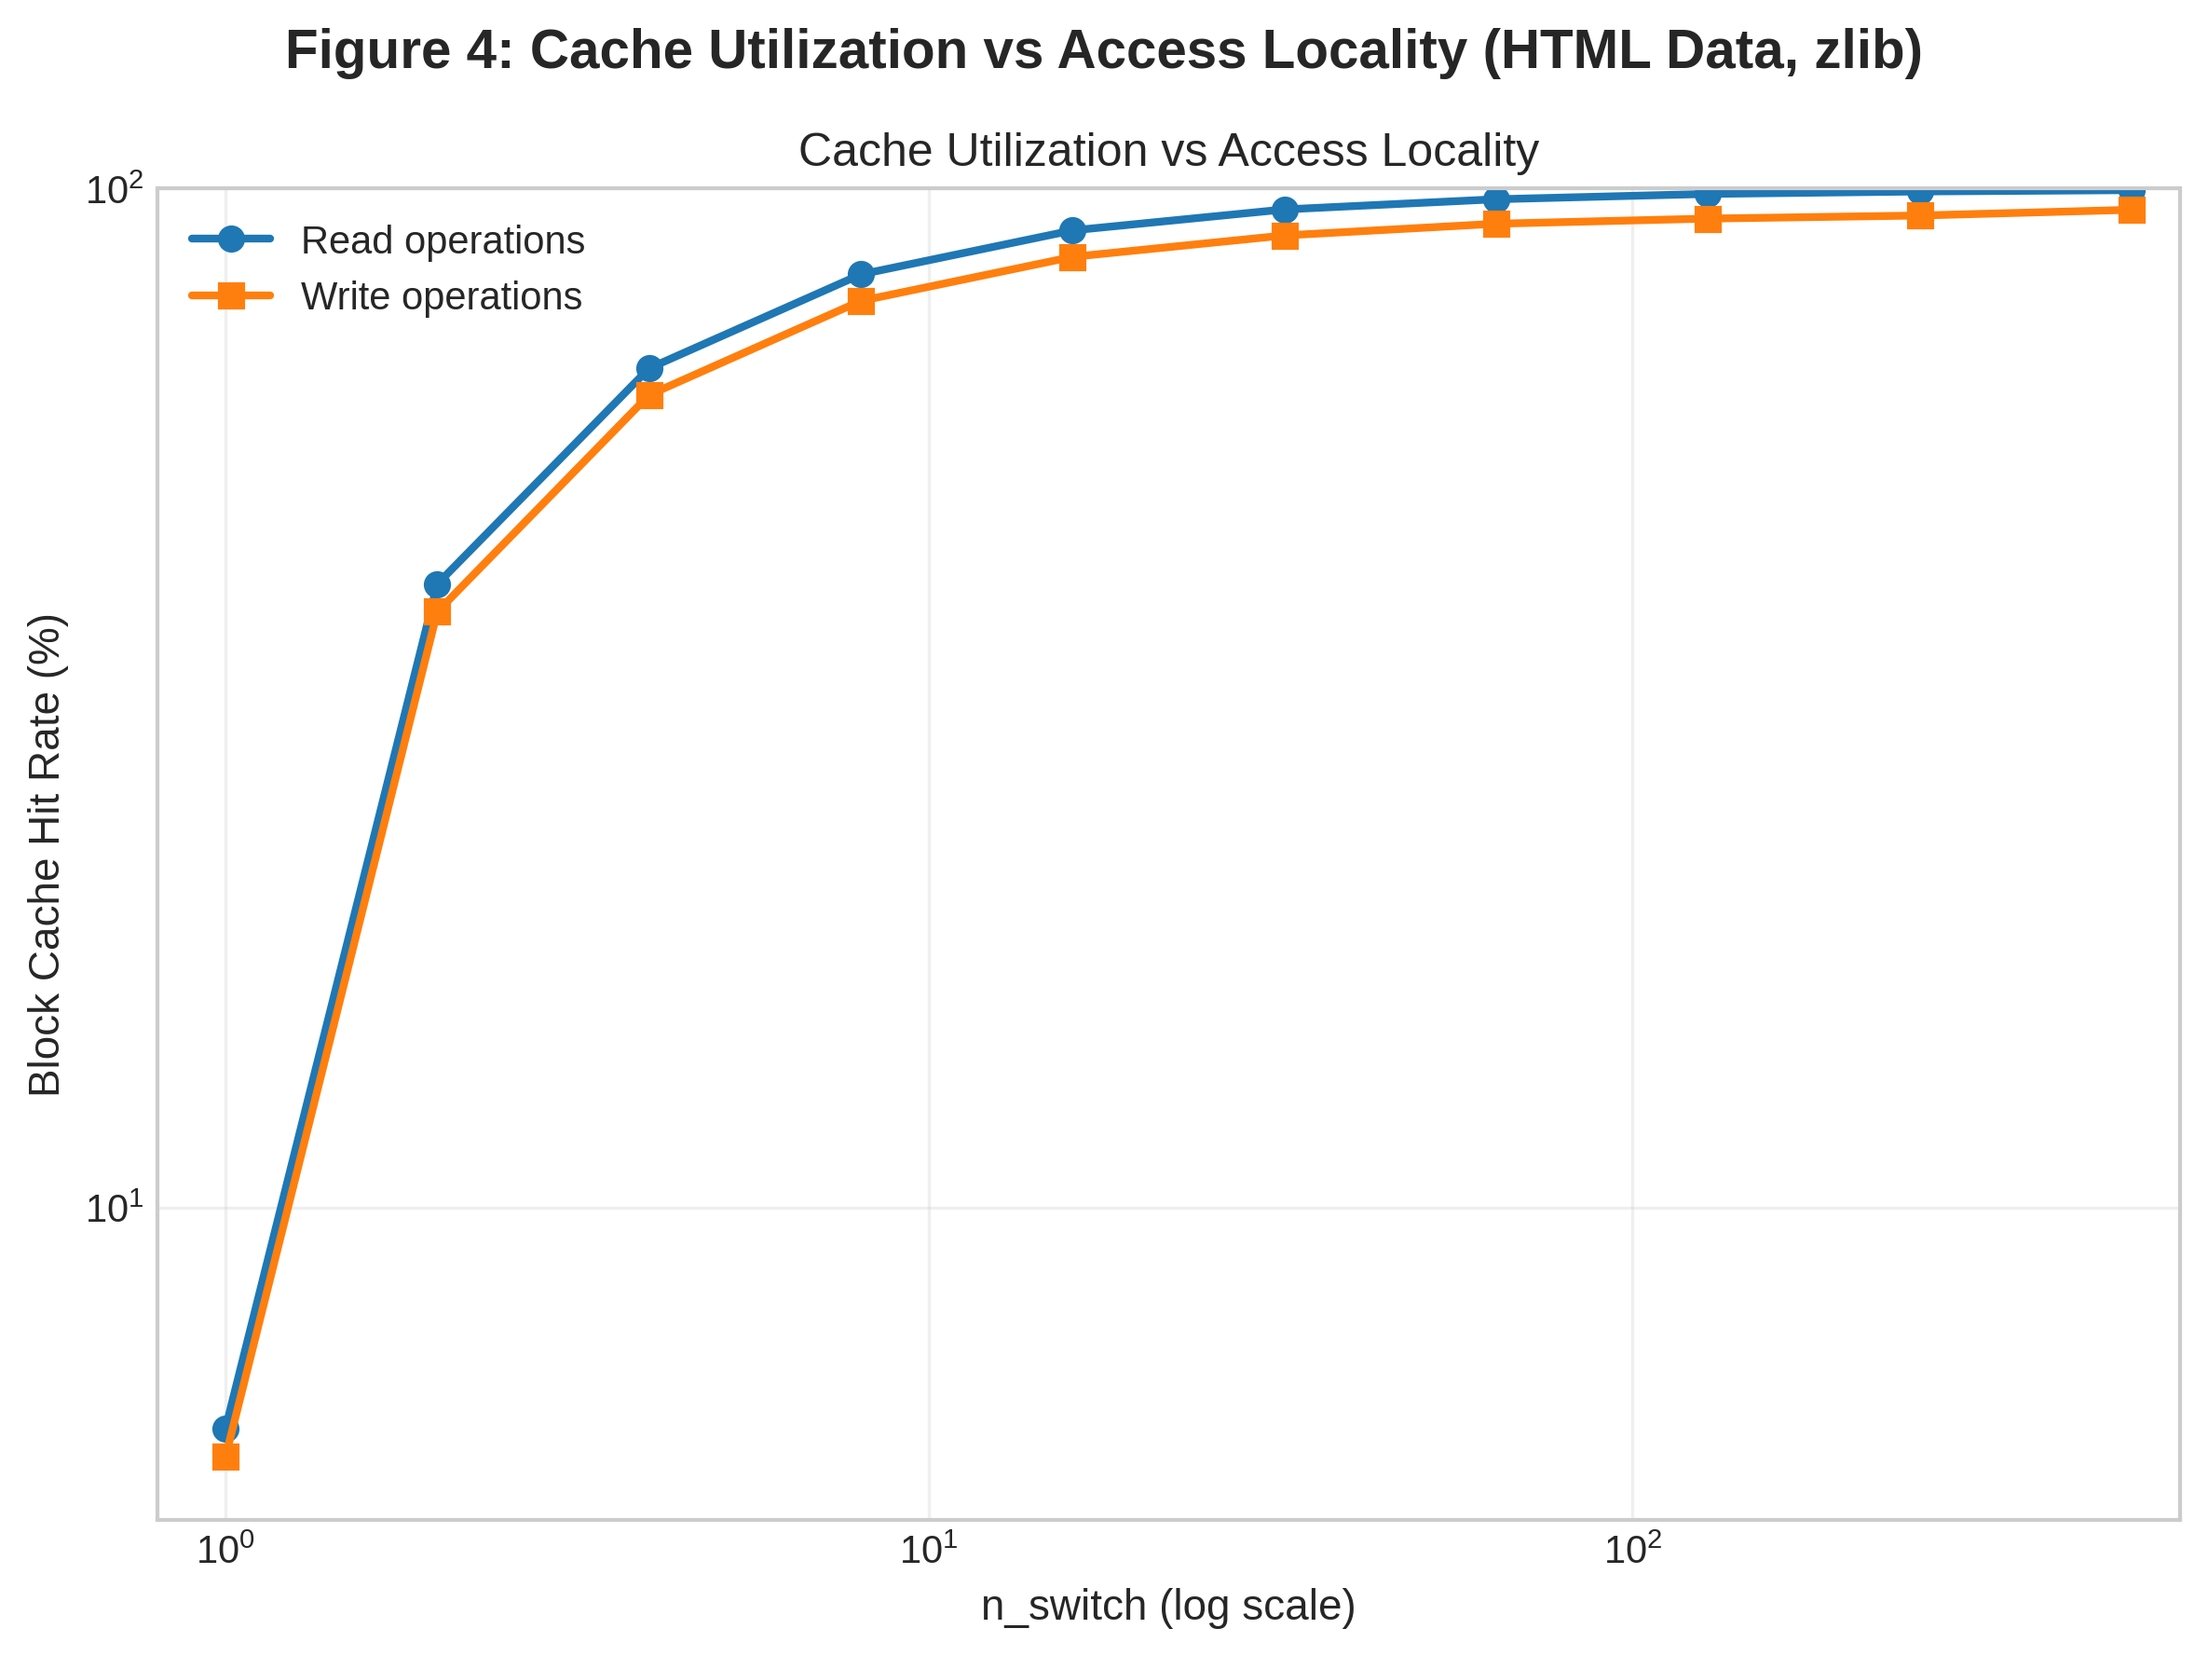
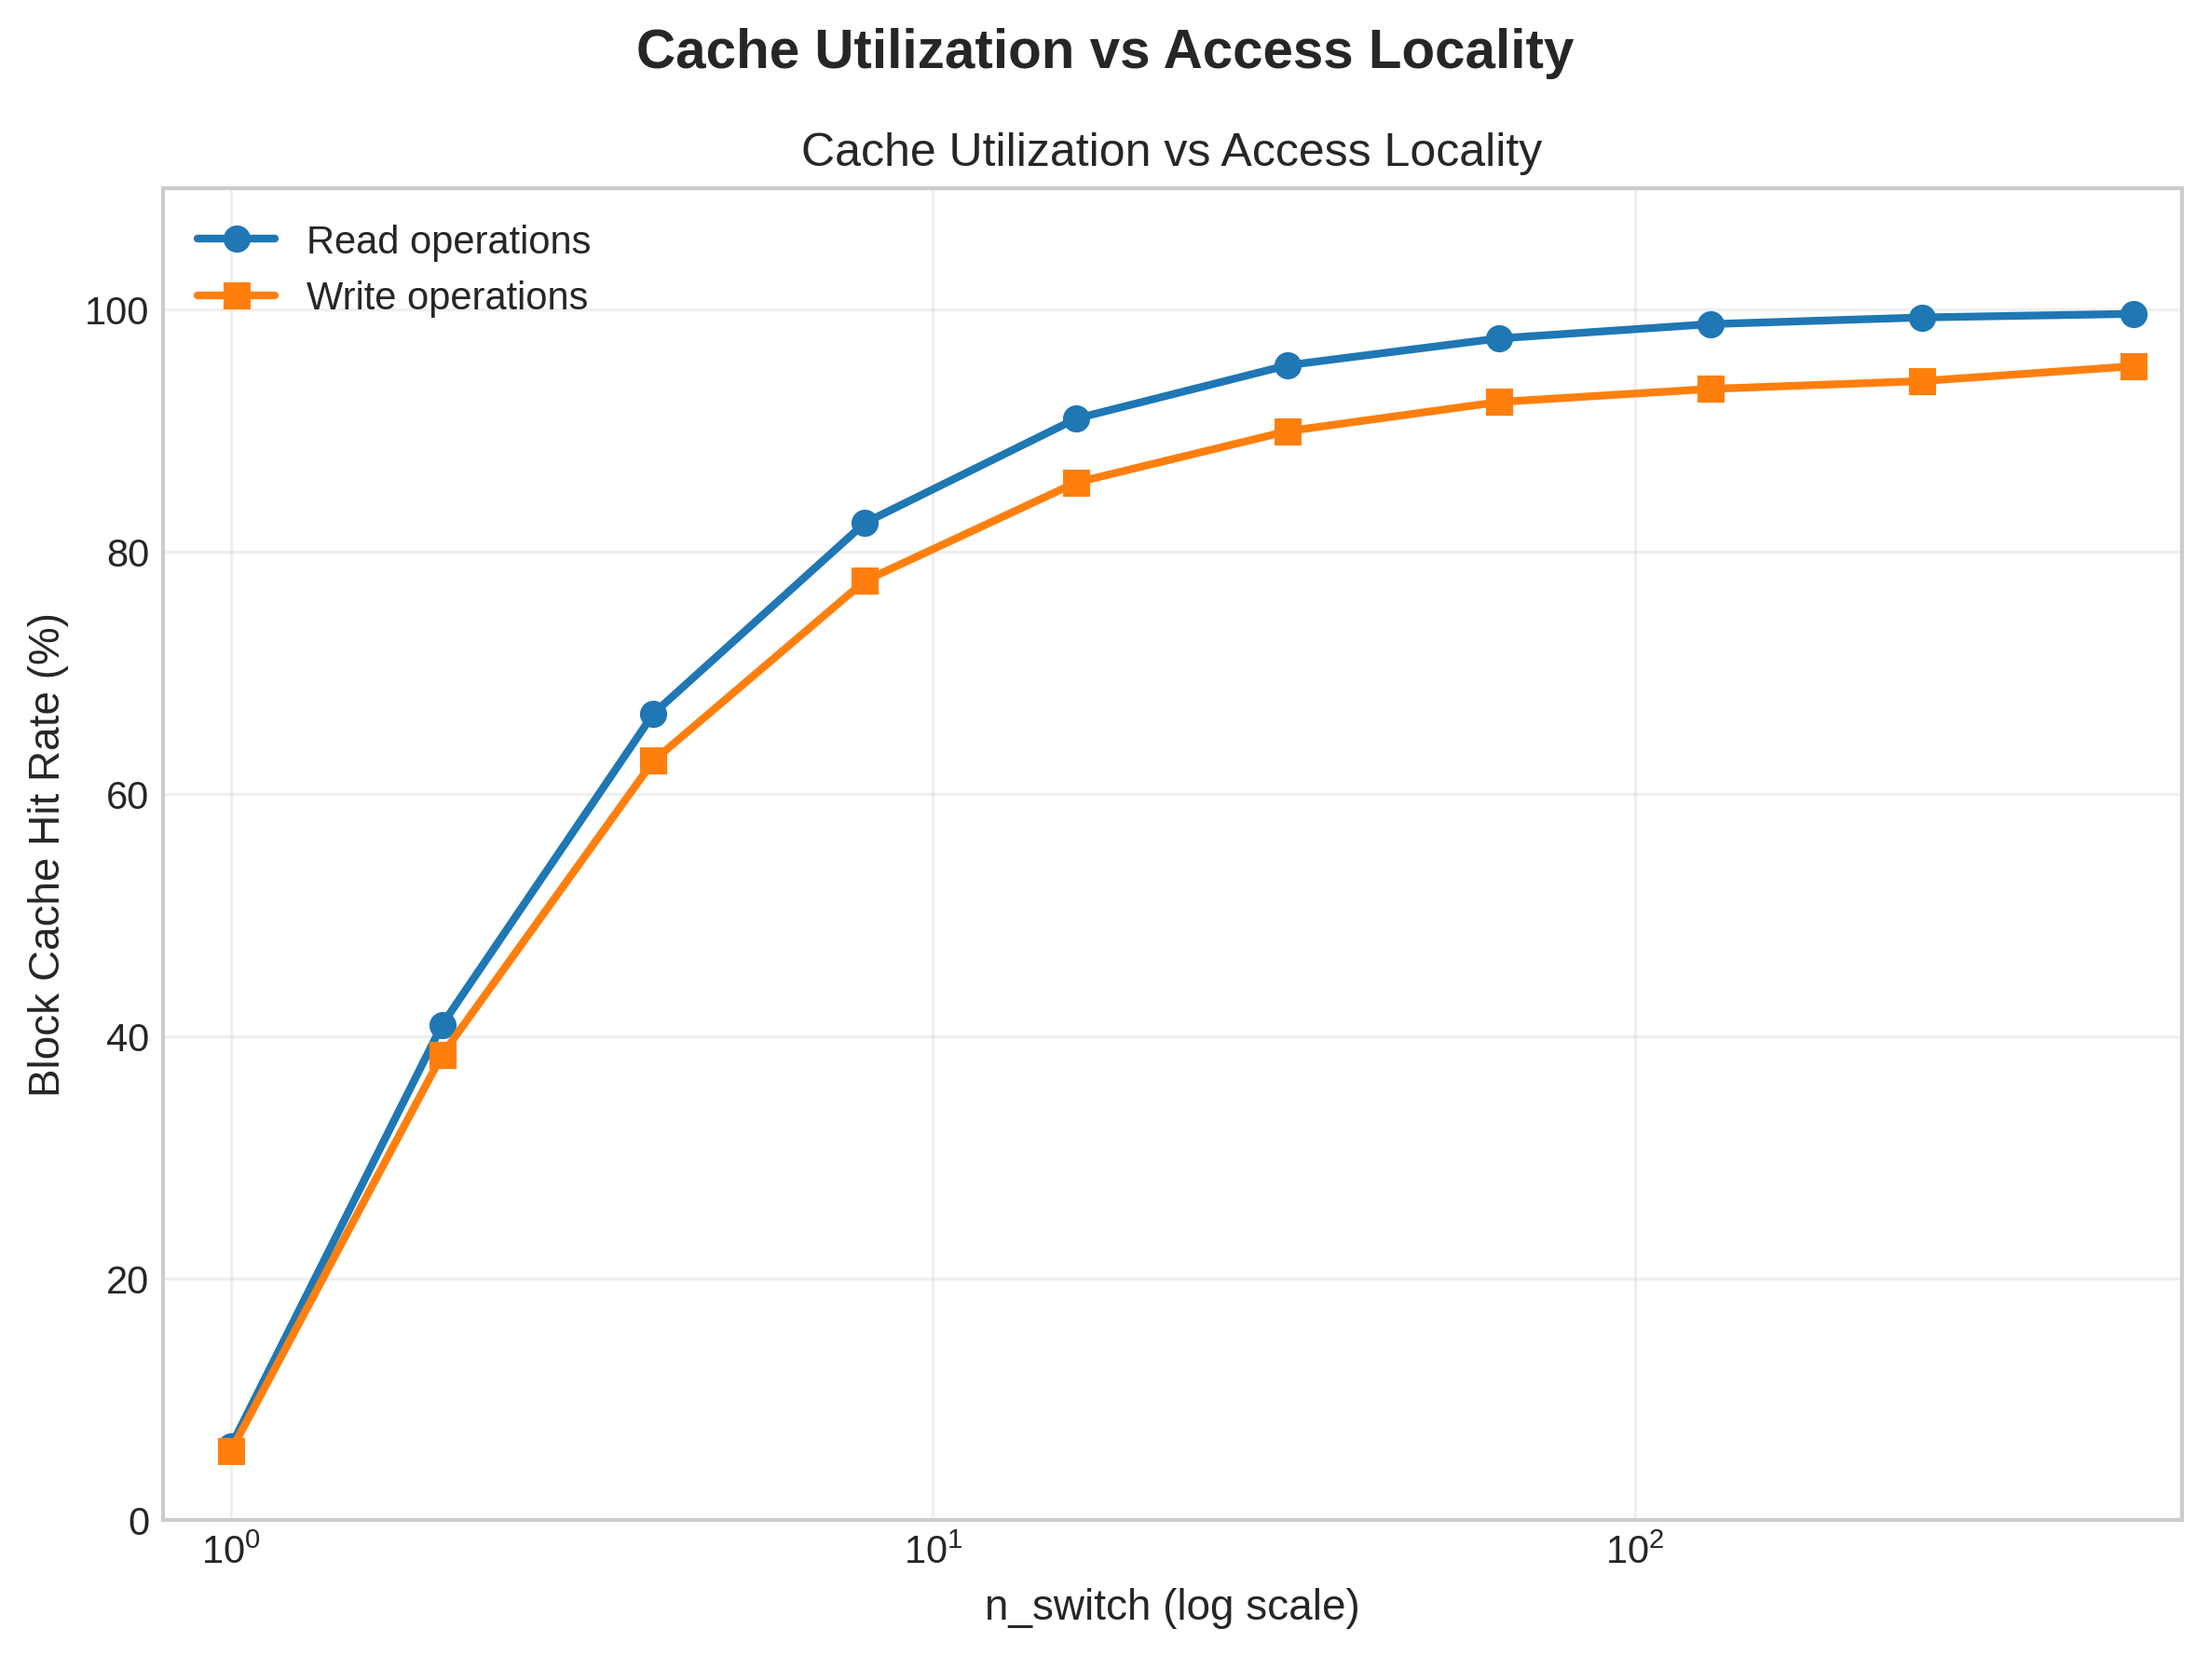
chore: some minor style improvements in plots

diff --git a/metrics/analyze.py b/metrics/analyze.py
@@ -157,8 +157,7 @@ class BenchmarkAnalyzer:
     def figure1_cache_redesign(self):
         """Create Figure 1: Cache Redesign Improvement (2x2 grid)."""
         fig, axes = plt.subplots(2, 2, figsize=(12, 10))
-        fig.suptitle('Figure 1: Cache Redesign Performance Improvement (HTML Data, zlib)', 
-                    fontsize=14, fontweight='bold')
+        fig.suptitle('Cache Redesign Performance Improvement', fontsize=14, fontweight='bold')
         
         # Plot 1A: Compression work for writes
         ax = axes[0, 0]
@@ -252,8 +251,7 @@ class BenchmarkAnalyzer:
     def figure2_io_reduction(self):
         """Create Figure 2: I/O Reduction Mechanism (1x2 grid)."""
         fig, axes = plt.subplots(1, 2, figsize=(14, 6))
-        fig.suptitle('Figure 2: I/O Reduction vs Cache Hit Rate (HTML Data, zlib)', 
-                    fontsize=14, fontweight='bold')
+        fig.suptitle('I/O Reduction vs Cache Hit Rate', fontsize=14, fontweight='bold')
         
         # Plot 2A: Write I/O reduction
         ax = axes[0]
@@ -330,11 +328,9 @@ class BenchmarkAnalyzer:
     def figure3_algorithm_comparison(self):
         """Create Figure 3: Algorithm Comparison vs Stdio (1x2 grid)."""
         fig, axes = plt.subplots(1, 2, figsize=(14, 6))
-        fig.suptitle('Figure 3: Algorithm Comparison vs Stdio (HTML Data, All Compressors)', 
-                    fontsize=14, fontweight='bold')
+        fig.suptitle('Algorithm Comparison vs Stdio (HTML Data)', fontsize=14, fontweight='bold')
         
-        algorithms = ['zlib', 'lz4', 'zstd']
-        markers = {'zlib': 'o', 'lz4': 's', 'zstd': '^'}
+        algorithms = ['zlib', 'zstd', 'lz4']
         
         # Plot 3A: Read break-even
         ax = axes[0]
@@ -367,7 +363,7 @@ class BenchmarkAnalyzer:
                         transformed_hits = self.setup_cache_hit_axis(ax, cache_hits)
                         
                         ax.plot(transformed_hits, throughput_ratios, 
-                               marker=markers[algo], label=algo, linewidth=2)
+                               marker="o", label=algo, linewidth=2)
         
         ax.axhline(y=1.0, color='r', linestyle='--', alpha=0.7, label='Break-even')
         ax.set_ylabel('Throughput Ratio\n(compio / stdio)')
@@ -406,7 +402,7 @@ class BenchmarkAnalyzer:
                         transformed_hits = self.setup_cache_hit_axis(ax, cache_hits)
                         
                         ax.plot(transformed_hits, throughput_ratios, 
-                               marker=markers[algo], label=algo, linewidth=2)
+                               marker="o", label=algo, linewidth=2)
         
         ax.axhline(y=1.0, color='r', linestyle='--', alpha=0.7, label='Break-even')
         ax.set_ylabel('Throughput Ratio\n(compio / stdio)')
@@ -421,7 +417,7 @@ class BenchmarkAnalyzer:
     def figure4_cache_behavior(self):
         """Create Figure 4: Cache Utilization vs Access Locality."""
         fig, ax = plt.subplots(1, 1, figsize=(8, 6))
-        fig.suptitle('Figure 4: Cache Utilization vs Access Locality (HTML Data, zlib)', 
+        fig.suptitle('Cache Utilization vs Access Locality', 
                     fontsize=14, fontweight='bold')
         
         n_switch_read, data_read = self.get_data_for_plot('zlib', 0)
@@ -442,7 +438,7 @@ class BenchmarkAnalyzer:
         ax.grid(True, alpha=0.3)
         ax.legend()
         ax.set_xlim(0.8, 600)
-        ax.set_ylim(0, 100)
+        ax.set_ylim(0, 110)
         
         plt.tight_layout()
         plt.savefig('figure4_cache_behavior.png', bbox_inches='tight', dpi=300)
